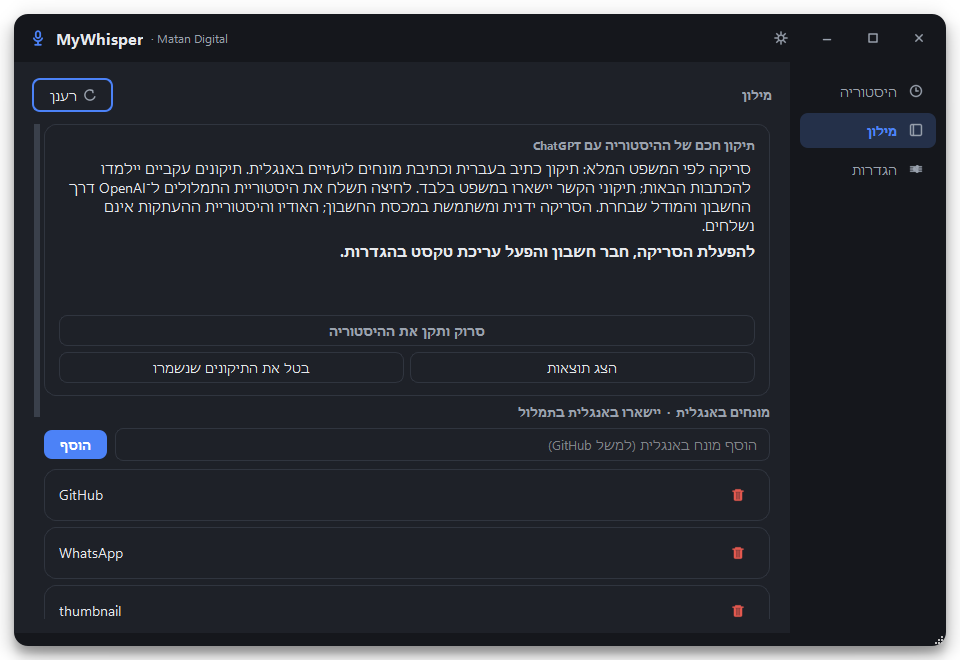
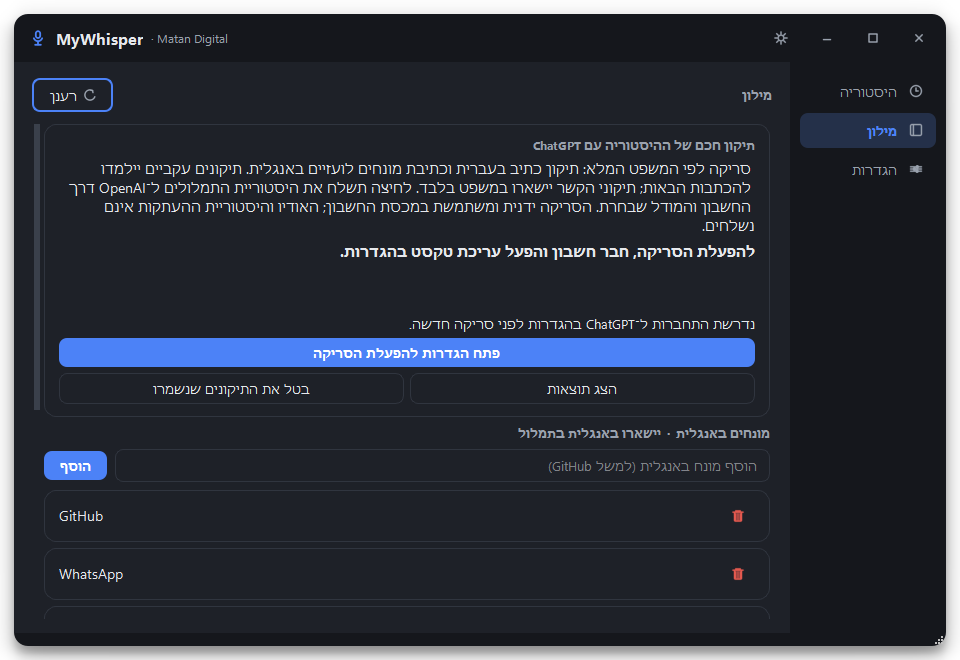
Make history scan setup actionable and verify saved-result buttons (v1.13.6)

diff --git a/docs/index.html b/docs/index.html
@@ -784,10 +784,10 @@ footer a{color:var(--muted);transition:color 0.2s}footer a:hover{color:var(--tex
 
     <div class="stage">
       <div class="halo" aria-hidden="true"></div>
-      <img class="overlay-float" src="app-overlay.png?v=1.13.5" alt="מחוון ההקלטה הצף">
+      <img class="overlay-float" src="app-overlay.png?v=1.13.6" alt="מחוון ההקלטה הצף">
       <div class="window">
         <div class="winbar"><span class="d r"></span><span class="d y"></span><span class="d g"></span><span>MyWhisper — Matan Digital</span></div>
-        <img class="shot" src="app-history-dark.png?v=1.13.5" alt="חלון ההיסטוריה של MyWhisper עם תמלולים בעברית">
+        <img class="shot" src="app-history-dark.png?v=1.13.6" alt="חלון ההיסטוריה של MyWhisper עם תמלולים בעברית">
       </div>
     </div>
   </div>
@@ -892,7 +892,7 @@ footer a{color:var(--muted);transition:color 0.2s}footer a:hover{color:var(--tex
       <div class="pt"><svg viewBox="0 0 24 24" fill="none" stroke="currentColor" stroke-width="2.2" stroke-linecap="round" stroke-linejoin="round"><path d="M20 6L9 17l-5-5"/></svg><span>המודל מקבל את המילה כרמז ומפיק אותה נכון מראש</span></div>
       <div class="pt"><svg viewBox="0 0 24 24" fill="none" stroke="currentColor" stroke-width="2.2" stroke-linecap="round" stroke-linejoin="round"><path d="M20 6L9 17l-5-5"/></svg><span>מילים באנגלית נשארות LTR בתוך העברית — בלי בלגן כיווניות</span></div>
     </div>
-    <div class="media"><img class="shot" src="app-dictionary-dark.png?v=1.13.5" alt="מילון התיקונים הנלמדים של MyWhisper"></div>
+    <div class="media"><img class="shot" src="app-dictionary-dark.png?v=1.13.6" alt="מילון התיקונים הנלמדים של MyWhisper"></div>
   </div>
 </section>
 
@@ -905,24 +905,24 @@ footer a{color:var(--muted);transition:color 0.2s}footer a:hover{color:var(--tex
       <p>כל תמלול נשמר לפני ההדבקה, גם אם חלון היעד השתנה. תמלולים קיימים מיובאים פעם אחת ללא כפילויות. כפתור ההעתקה, Enter או לחיצה כפולה מחזירים את הפריט ללוח. Esc סוגר את החלון.</p>
       <p>התקנות חדשות משתמשות במודל ivrit.ai Large v3 המלא; בחירת מודל קיימת נשמרת בשדרוג. השהיית מעקב ההעתקות אינה עוצרת שמירת תמלולים.</p>
     </div>
-    <div class="media"><img class="shot" src="app-clipboard-dark.png?v=1.13.5" alt="היסטוריית העתקות עם תצוגת הטקסט המלא לצד הרשימה"></div>
+    <div class="media"><img class="shot" src="app-clipboard-dark.png?v=1.13.6" alt="היסטוריית העתקות עם תצוגת הטקסט המלא לצד הרשימה"></div>
   </div>
 </section>
 
 <!-- release:start -->
-<section id="updates" data-release-version="1.13.5">
+<section id="updates" data-release-version="1.13.6">
   <div class="wrap">
     <span class="eyebrow">מה חדש</span>
-    <h2 class="h2">הגרסה העדכנית: <bdi>v1.13.5</bdi></h2>
+    <h2 class="h2">הגרסה העדכנית: <bdi>v1.13.6</bdi></h2>
     <p class="sub">העדכונים האחרונים מתוך יומן השינויים של התוכנה.</p>
     <div class="release-notes">
       <ul>
-        <li><strong>תפריטים נפתחים קריאים</strong>: תוקן הרקע השחור בתפריטי בחירת מודל, חשבון ודפדפן של ChatGPT ב־Windows. צבעי הרקע, הטקסט והבחירה מותאמים לערכת הנושא ומתעדכנים גם במעבר בין מצב בהיר לכהה.</li>
+        <li><strong>כפתורי סריקת היסטוריה ברורים ופעילים</strong>: כאשר חיבור, מודל או הפעלת עריכה חסרים, כפתור הסריקה פותח את ההגדרות ומוצג הסבר קבוע במקום כפתור חסום ללא הסבר. צפייה בתוצאות וביטול תיקונים שמורים זמינים גם כשהעריכה בענן כבויה. פתיחת ההגדרות אינה מפעילה עריכה ואינה שולחת היסטוריה.</li>
       </ul>
     </div>
     <div class="cta-row">
-      <a class="btn btn-lg btn-primary" href="https://github.com/MatanCH2020/MyWhisper/releases/download/v1.13.5/MyWhisper-Setup.cmd">הורדת המתקין</a>
-      <a class="btn btn-lg btn-ghost" href="https://github.com/MatanCH2020/MyWhisper/releases/tag/v1.13.5">כל פרטי הגרסה</a>
+      <a class="btn btn-lg btn-primary" href="https://github.com/MatanCH2020/MyWhisper/releases/download/v1.13.6/MyWhisper-Setup.cmd">הורדת המתקין</a>
+      <a class="btn btn-lg btn-ghost" href="https://github.com/MatanCH2020/MyWhisper/releases/tag/v1.13.6">כל פרטי הגרסה</a>
     </div>
   </div>
 </section>

diff --git a/app/ui_pages/dictionary_page.py b/app/ui_pages/dictionary_page.py
@@ -66,6 +66,10 @@ class DictionaryPageMixin:
         self._scan_note.setWordWrap(True)
         self._scan_note.setObjectName("cardtext")
         scan_box.addWidget(self._scan_note)
+        self._scan_requirement = QLabel()
+        self._scan_requirement.setWordWrap(True)
+        self._scan_requirement.setObjectName("fieldlabel")
+        scan_box.addWidget(self._scan_requirement)
         self._scan_bar = QProgressBar()
         self._scan_bar.setObjectName("scanprogress")
         self._scan_bar.setAccessibleName("התקדמות סריקת התמלולים")
@@ -133,22 +137,49 @@ class DictionaryPageMixin:
             self._on_scan_result(report, notify=False, refresh=False)
         return w
 
-    def _refresh_scan_controls(self):
-        st = self.ui.chatgpt_status()
+    def _refresh_scan_controls(self, status=None):
+        st = status if status is not None else self.ui.chatgpt_status()
         ready = (st.get("enabled") is True and st.get("connected") and st.get("eligible")
-                 and st.get("model") in {m["slug"] for m in st.get("models", [])})
-        self._scan_start.setEnabled(bool(ready) and not self._scan_busy)
-        self._scan_undo.setEnabled(not self._scan_busy and self.ui.can_undo_history_scan())
+                 and st.get("model") in {m["slug"] for m in st.get("models", [])}
+                 and st.get("error") not in {"authorization", "identity", "permission", "ineligible", "storage", "quota"})
+        self._scan_ready = bool(ready)
+        can_undo = self.ui.can_undo_history_scan()
+        if not st.get("connected") or st.get("error") in {"authorization", "identity"}:
+            reason = "נדרשת התחברות ל־ChatGPT בהגדרות לפני סריקה חדשה."
+        elif not st.get("eligible") or st.get("error") in {"permission", "ineligible", "storage", "quota"}:
+            reason = "נדרש לבדוק את הרשאות החשבון או המכסה בהגדרות לפני סריקה חדשה."
+        elif st.get("model") not in {m["slug"] for m in st.get("models", [])}:
+            reason = "נדרש לבחור מודל זמין בהגדרות לפני סריקה חדשה."
+        else:
+            reason = "עריכת הטקסט בענן כבויה. יש להפעיל אותה בהגדרות לפני סריקה חדשה."
+        self._scan_requirement.setText(reason if not ready and not self._scan_busy else "")
+        self._scan_requirement.setVisible(not ready and not self._scan_busy)
+        self._scan_start.setEnabled(not self._scan_busy)
+        self._scan_undo.setEnabled(not self._scan_busy and can_undo)
         self._scan_cancel.setVisible(self._scan_busy)
-        self._scan_start.setText("סורק…" if self._scan_busy else "סרוק ותקן את ההיסטוריה")
+        self._scan_start.setText("סורק…" if self._scan_busy else
+                                 "סרוק ותקן את ההיסטוריה" if ready else "פתח הגדרות להפעלת הסריקה")
         self._scan_details.setEnabled(bool(self._scan_report) and not self._scan_busy)
-        self._scan_start.setToolTip("" if ready else "חבר חשבון זכאי, בחר מודל והפעל עריכת טקסט בהגדרות.")
+        self._scan_start.setToolTip("" if ready else reason)
+        self._scan_details.setToolTip("" if self._scan_report else "עדיין אין תוצאות סריקה שמורות להצגה.")
+        self._scan_undo.setToolTip("מבטל את הסריקה האחרונה שנשמרה, תוך שמירת עריכות חדשות."
+                                   if can_undo else "אין תיקוני סריקה שמורים שניתן לבטל.")
         if not self._scan_busy and not getattr(self, "_scan_has_result", False):
             self._scan_status.setText("מוכן לסריקת כל היסטוריית התמלולים. המקור יישמר ואפשר לבטל את השינויים."
                                       if ready else "להפעלת הסריקה, חבר חשבון והפעל עריכת טקסט בהגדרות.")
 
     def _start_history_scan(self):
         if self._scan_busy:
+            return
+        # A setup click never enables editing or sends history. Recheck at
+        # click time too: account/opt-in state may have changed since rendering.
+        self._refresh_scan_controls()
+        if not self._scan_ready:
+            self._goto(2, from_nav=False)
+            target = (self._cloud_switch if self._cloud_switch.isEnabled() else
+                      self._cloud_model if self._cloud_model.isEnabled() else self._cloud_login)
+            self.stack.widget(2).ensureWidgetVisible(target)
+            target.setFocus()
             return
         self._scan_busy = True
         self._scan_cancelling = False

diff --git a/tests/test_chatgpt.py b/tests/test_chatgpt.py
@@ -559,14 +559,25 @@ class CloudSettingsTests(unittest.TestCase):
         self.win.hide()
 
     def test_history_scan_controls_require_explicit_opt_in_and_do_not_run_on_open(self):
+        from PySide6.QtCore import Qt
+        from PySide6.QtTest import QTest
+
         self.ui.scan_history = Mock()
+        self.ui.prepare_history_scan = Mock()
         self.win._refresh_cloud()
-        self.assertFalse(self.win._scan_start.isEnabled())
+        self.assertTrue(self.win._scan_start.isEnabled())
         self.ui.scan_history.assert_not_called()
         self.ui.chatgpt_status = lambda: {"connected": True, "eligible": True, "enabled": False,
             "models": [{"slug": "luna", "display_name": "Luna"}], "model": "luna"}
         self.win._refresh_cloud()
-        self.assertFalse(self.win._scan_start.isEnabled())
+        self.assertTrue(self.win._scan_start.isEnabled())
+        self.assertIn("כבויה", self.win._scan_requirement.text())
+        self.win._goto(1)
+        QTest.mouseClick(self.win._scan_start, Qt.LeftButton)
+        self.assertEqual(self.win.stack.currentIndex(), 2)
+        self.ui.scan_history.assert_not_called()
+        self.ui.prepare_history_scan.assert_not_called()
+        self.ui.chatgpt_action.assert_not_called()
         self.ui.chatgpt_status = lambda: {"connected": True, "eligible": True, "enabled": True,
             "models": [{"slug": "luna", "display_name": "Luna"}], "model": "luna"}
         self.win._refresh_cloud()
@@ -574,6 +585,37 @@ class CloudSettingsTests(unittest.TestCase):
         self.win._scan_busy = True
         self.win._refresh_scan_controls()
         self.assertFalse(self.win._scan_start.isEnabled())
+
+    def test_scan_saved_results_and_undo_clicks_work_while_cloud_is_off(self):
+        from PySide6.QtCore import Qt
+        from PySide6.QtTest import QTest
+
+        self.ui.can_undo_history_scan = lambda: True
+        self.ui.undo_history_scan = Mock(return_value={"status": "undone", "corrected": 2})
+        self.win._on_scan_result({"status": "completed", "scanned": 2, "corrected": 2},
+                                 notify=False, refresh=False)
+        self.assertTrue(self.win._scan_details.isEnabled())
+        self.assertTrue(self.win._scan_undo.isEnabled())
+        dialog = Mock()
+        with patch.object(self.win, "_scan_details_dialog", return_value=dialog):
+            QTest.mouseClick(self.win._scan_details, Qt.LeftButton)
+        dialog.exec.assert_called_once_with()
+        QTest.mouseClick(self.win._scan_undo, Qt.LeftButton)
+        self.ui.undo_history_scan.assert_called_once_with()
+        self.ui.chatgpt_action.assert_not_called()
+
+    def test_scan_click_rechecks_opt_in_before_preparing_or_sending(self):
+        self.ui.chatgpt_status = lambda: {"connected": True, "eligible": True, "enabled": True,
+            "models": [{"slug": "luna", "display_name": "Luna"}], "model": "luna"}
+        self.win._refresh_scan_controls()
+        self.assertTrue(self.win._scan_ready)
+        self.ui.chatgpt_status = lambda: {"enabled": False}
+        self.ui.scan_history = Mock()
+        self.ui.prepare_history_scan = Mock()
+        self.win._scan_start.click()
+        self.assertEqual(self.win.stack.currentIndex(), 2)
+        self.ui.prepare_history_scan.assert_not_called()
+        self.ui.scan_history.assert_not_called()
 
     def test_history_scan_summary_reports_actual_changes_and_undo(self):
         from history_scanner import ScanResult

diff --git a/app/ui_pages/settings_page.py b/app/ui_pages/settings_page.py
@@ -334,7 +334,7 @@ class SettingsPageMixin:
         return card
 
     def _refresh_cloud(self, status=None):
-        self._refresh_scan_controls()
+        self._refresh_scan_controls(status)
         if self._cloud_busy:
             return
         st = status or self.ui.chatgpt_status()

diff --git a/app/version.py b/app/version.py
@@ -1,3 +1,3 @@
 """Single source of truth for the app version (shown in Settings, compared
 against the latest GitHub release by the in-app updater)."""
-__version__ = "1.13.5"
+__version__ = "1.13.6"

diff --git a/README.md b/README.md
@@ -17,7 +17,7 @@
 ### 🌐 [דף הבית ← matanch2020.github.io/MyWhisper](https://matanch2020.github.io/MyWhisper/) · ⬇ [הורדת מתקין](https://github.com/MatanCH2020/MyWhisper/releases/latest/download/MyWhisper-Setup.cmd)
 
 <!-- release-version:start -->
-**גרסה נוכחית: [v1.13.5](https://github.com/MatanCH2020/MyWhisper/releases/tag/v1.13.5)** · [היסטוריית העדכונים](CHANGELOG.md)
+**גרסה נוכחית: [v1.13.6](https://github.com/MatanCH2020/MyWhisper/releases/tag/v1.13.6)** · [היסטוריית העדכונים](CHANGELOG.md)
 <!-- release-version:end -->
 
 <br>
@@ -187,6 +187,10 @@ irm https://raw.githubusercontent.com/MatanCH2020/MyWhisper/main/scripts/uninsta
 עריכת טקסט בהגדרות. הפעולה שולחת את היסטוריית **התמלולים** השמורה ל-OpenAI לפי
 המשפט המלא, לתיקון כתיב ותחביר ולכתיבת מונחים לועזיים באנגלית, למשל „גיטהאב” → `GitHub`.
 האודיו והיסטוריית ההעתקות אינם נשלחים. הפעולה משתמשת במכסת החשבון האישי.
+
+אם חסרה הגדרה, מופיע הסבר וכפתור **פתח הגדרות להפעלת הסריקה** מוביל להגדרות ChatGPT.
+המעבר אינו מפעיל עריכה או מתחיל סריקה. **הצג תוצאות** וביטול תיקונים שמורים זמינים
+גם כשהעריכה בענן כבויה; הם אינם דורשים התחברות מחדש.
 
 הסריקה ידנית ואינה מתבצעת בהפעלה או ברקע ללא לחיצה. מחוון התקדמות וכפתור ביטול
 מאפשרים להמשיך לעבוד; כל קבוצה מוגבלת ל-45 שניות, בנפרד מתקציב שתי השניות להכתבה.

diff --git a/CHANGELOG.md b/CHANGELOG.md
@@ -2,6 +2,10 @@
 
 ברוכים הבאים ליומן העדכונים. כאן תוכלו לראות אילו פיצ'רים הוספנו ואיך התוכנה משתפרת מגרסה לגרסה.
 
+## גרסה 1.13.6
+
+- **כפתורי סריקת היסטוריה ברורים ופעילים**: כאשר חיבור, מודל או הפעלת עריכה חסרים, כפתור הסריקה פותח את ההגדרות ומוצג הסבר קבוע במקום כפתור חסום ללא הסבר. צפייה בתוצאות וביטול תיקונים שמורים זמינים גם כשהעריכה בענן כבויה. פתיחת ההגדרות אינה מפעילה עריכה ואינה שולחת היסטוריה.
+
 ## גרסה 1.13.5
 
 - **תפריטים נפתחים קריאים**: תוקן הרקע השחור בתפריטי בחירת מודל, חשבון ודפדפן של ChatGPT ב־Windows. צבעי הרקע, הטקסט והבחירה מותאמים לערכת הנושא ומתעדכנים גם במעבר בין מצב בהיר לכהה.
